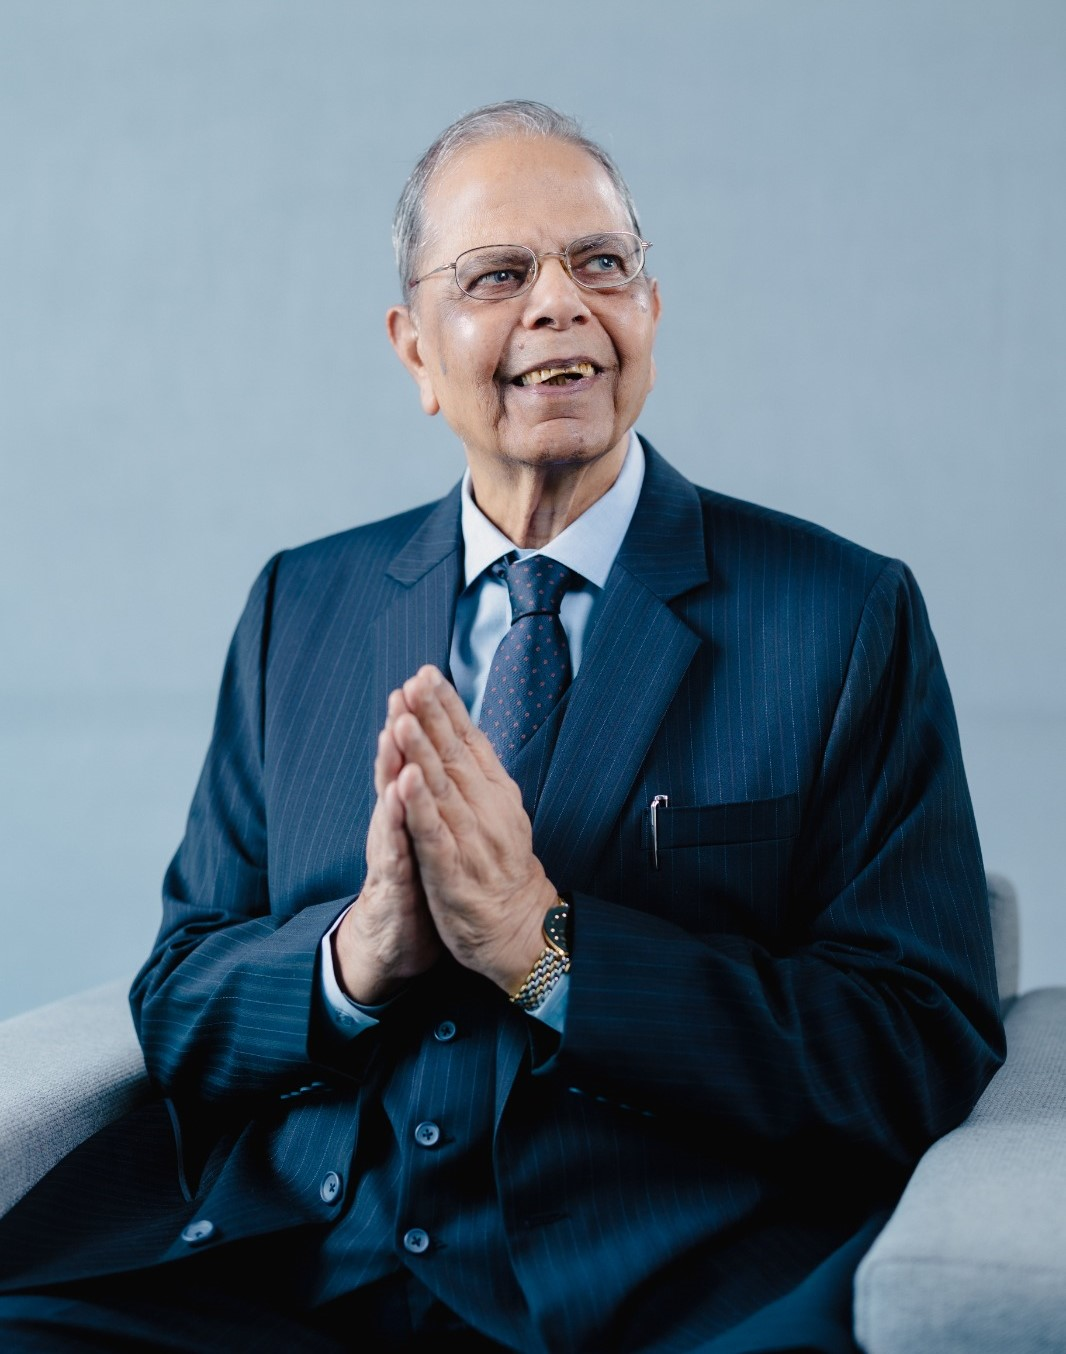
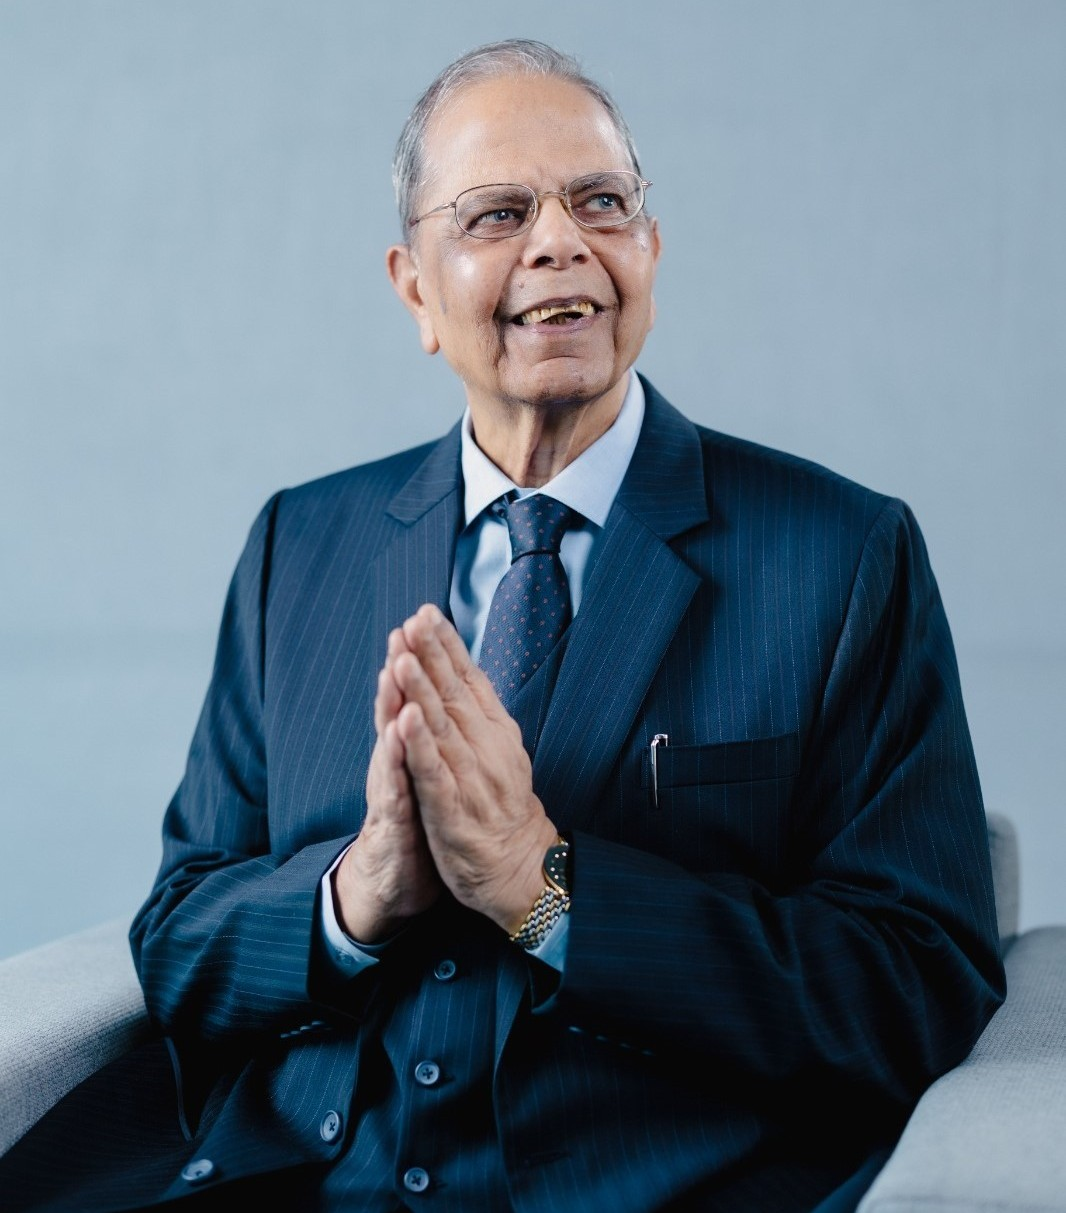
Implement code changes to enhance functionality and improve performance

diff --git a/index.html b/index.html
@@ -151,7 +151,7 @@
     <section class="chairman">
         <div class="chairman-content container-lg">
             <div class="chairman-image" data-aos="fade" data-aos-duration="1000">
-                <img src="assets/images/chairman-2.png" alt="chairman">
+                <img src="assets/images/chairman.jpeg" alt="chairman">
             </div>
             <div class="chairman-desc">
                 <img src="assets/images/top-right-arrow.png" alt="icon" data-aos="fade" data-aos-duration="1000">
@@ -285,69 +285,158 @@
 
     <!-- Media Start -->
     <section class="media container-lg">
-        <h1 data-aos="fade" data-aos-duration="1000">LATEST NEWS</h1>
-        <div class="media-boxes">
-            <div class="media-aside" data-aos="fade" data-aos-duration="1000">
-                <div class="img-box">
-                    <img src="assets/images/media/img-1.png" alt="image">
-                </div>
-                <div class="media-head">
-                    <h2>Nirmal Wires: Pioneering Indian Innovation with Niznal® - Redefining Strength & Durability.</h2>
-                </div>
-                <div class="media-desc">
-                    <p>Group Nirmal is as an established quality manufacturer of world- class steel wires with an annual capacity of 216,000 metric tonne and a $260 million USD turnover operating in 7 state-of-the-art...</p>
-                </div>
-                <a href="https://www.industrialtechmag.com/2024/04/08/group-nirmal/" target="_blank"><button>READ MORE</button></a>
-            </div>
-            <div class="media-center" data-aos="fade" data-aos-duration="1000">
-                <div class="center-box">
-                    <div class="center-box-left">
-                        <div class="img-box">
-                            <img src="assets/images/media/img-2.png" alt="image">
-                        </div>
-                    </div>
-                    <div class="center-box-right">
-                        <div class="media-head">
-                            <h2>Nirmal Wires Aims at Enhancing Its Position as Holistic Solutions Provider in Industry.</h2>
-                        </div>
-                        <div class="media-desc">
-                            <p>Leading manufacturers of world-class steel wires with an annual capacity of 1,80,000 metric tonnes and an INR 1,200 crore turnover...</p>
-                        </div>
-                        <a href="https://www.wirecable.in/nirmal-wires-aims-at-enhancing-its-position/" target="_blank"><button>READ MORE</button></a>
-                    </div>
-                </div>
-                <div class="center-box">
-                    <div class="center-box-right">
-                        <div class="media-head">
-                            <h2>Group Nirmal: Re-Imagineering Tomorrow.</h2>
-                        </div>
-                        <div class="media-desc">
-                            <p>Group Nirmal's main fencing-related products include chain link fences, barbed wires, and PVC-coated wires. One of their most significant breakthroughs is a newly released product called Niznal...</p>
-                        </div>
-                        <a href="https://www.theindustryoutlook.com/services-and-consulting/vendor/group-nirmal-reimagineering-tomorrow--cid-7558.html" target="_blank"><button>READ MORE</button></a>
-                    </div>
-                    <div class="center-box-left">
-                        <div class="img-box">
-                            <img src="assets/images/media/img-3.png" alt="image">
-                        </div>
-                    </div>
-                </div>
-            </div>
-            <div class="media-aside" data-aos="fade" data-aos-duration="1000">
-                <div class="img-box">
-                    <img src="assets/images/media/img-4.png" alt="image">
-                </div>
-                <div class="media-head">
-                    <h2>Group Nirmal redefines coated wire tech with Niznal®, unlocking future possibilities.</h2>
-                </div>
-                <div class="media-desc">
-                    <p>With over 50 years of experience and expertise in wire manufacturing, the company has always been committed to pushing boundaries and...</p>
-                </div>
-                <a href="https://www.eprmagazine.com/power-brand/group-nirmal-redefines-coated-wire-tech-with-niznal-unlocking-future-possibilities/" target="_blank"><button>READ MORE</button></a>
+        <h1 data-aos="fade" data-aos-duration="1000">&mdash; LATEST NEWS &mdash;</h1>
+    
+        <div class="latest-news-head" data-aos="fade" data-aos-duration="1000">
+            <div class="nav nav-pills" role="tablist">
+                <button class="nav-link active" data-bs-toggle="pill" data-bs-target="#our-blogs" type="button" role="tab"
+                    aria-selected="true"><span>Our Blogs</span></button>
+                <button class="nav-link" data-bs-toggle="pill" data-bs-target="#media-coverage" type="button" role="tab"
+                    aria-selected="false"><span>Media Coverage</span></button>
             </div>
         </div>
-    </section> 
+    
+        <div class="tab-content">
+            <!-- Tab 1 -->
+            <div class="tab-pane fade show active" id="our-blogs" role="tabpanel">
+                <div class="media-boxes">
+                    <div class="media-aside" data-aos="fade" data-aos-duration="1000">
+                        <div class="img-box">
+                            <img src="assets/images/media/img-1.png" alt="image">
+                        </div>
+                        <div class="media-head">
+                            <h2>Nirmal Wires: Pioneering Indian Innovation with Niznal® - Redefining Strength & Durability.</h2>
+                        </div>
+                        <div class="media-desc">
+                            <p>Group Nirmal is as an established quality manufacturer of world- class steel wires with an annual capacity of 216,000 metric tonne and a $260 million USD turnover operating in 7 state-of-the-art...</p>
+                        </div>
+                        <a href="https://www.industrialtechmag.com/2024/04/08/group-nirmal/" target="_blank"><button>READ MORE</button></a>
+                    </div>
+                    <div class="media-center" data-aos="fade" data-aos-duration="1000">
+                        <div class="center-box">
+                            <div class="center-box-left">
+                                <div class="img-box">
+                                    <img src="assets/images/media/img-2.png" alt="image">
+                                </div>
+                            </div>
+                            <div class="center-box-right">
+                                <div class="media-head">
+                                    <h2>Nirmal Wires Aims at Enhancing Its Position as Holistic Solutions Provider in Industry.</h2>
+                                </div>
+                                <div class="media-desc">
+                                    <p>Leading manufacturers of world-class steel wires with an annual capacity of 1,80,000 metric tonnes and an INR 1,200 crore turnover...</p>
+                                </div>
+                                <a href="https://www.wirecable.in/nirmal-wires-aims-at-enhancing-its-position/" target="_blank"><button>READ MORE</button></a>
+                            </div>
+                        </div>
+                        <div class="center-box">
+                            <div class="center-box-right">
+                                <div class="media-head">
+                                    <h2>Group Nirmal: Re-Imagineering Tomorrow.</h2>
+                                </div>
+                                <div class="media-desc">
+                                    <p>Group Nirmal's main fencing-related products include chain link fences, barbed wires, and PVC-coated wires. One of their most significant breakthroughs is a newly released product called Niznal...</p>
+                                </div>
+                                <a href="https://www.theindustryoutlook.com/services-and-consulting/vendor/group-nirmal-reimagineering-tomorrow--cid-7558.html" target="_blank"><button>READ MORE</button></a>
+                            </div>
+                            <div class="center-box-left">
+                                <div class="img-box">
+                                    <img src="assets/images/media/img-3.png" alt="image">
+                                </div>
+                            </div>
+                        </div>
+                    </div>
+                    <div class="media-aside" data-aos="fade" data-aos-duration="1000">
+                        <div class="img-box">
+                            <img src="assets/images/media/img-4.png" alt="image">
+                        </div>
+                        <div class="media-head">
+                            <h2>Group Nirmal redefines coated wire tech with Niznal®, unlocking future possibilities.</h2>
+                        </div>
+                        <div class="media-desc">
+                            <p>With over 50 years of experience and expertise in wire manufacturing, the company has always been committed to pushing boundaries and...</p>
+                        </div>
+                        <a href="https://www.eprmagazine.com/power-brand/group-nirmal-redefines-coated-wire-tech-with-niznal-unlocking-future-possibilities/" target="_blank"><button>READ MORE</button></a>
+                    </div>
+                </div>
+            </div>
+    
+            <!-- Tab 2 -->
+            <div class="tab-pane fade" id="media-coverage" role="tabpanel">
+                <div class="media-boxes">
+                    <div class="media-aside" data-aos="fade" data-aos-duration="1000">
+                        <div class="img-box">
+                            <img src="assets/images/media/img-1.png" alt="image">
+                        </div>
+                        <div class="media-head">
+                            <h2>Nirmal Wires: Pioneering Indian Innovation with Niznal® - Redefining Strength & Durability.</h2>
+                        </div>
+                        <div class="media-desc">
+                            <p>Group Nirmal is as an established quality manufacturer of world- class steel wires with an annual capacity of 216,000 metric tonne and a $260 million USD turnover operating in 7 state-of-the-art...</p>
+                        </div>
+                        <a href="https://www.industrialtechmag.com/2024/04/08/group-nirmal/" target="_blank"><button>READ MORE</button></a>
+                    </div>
+                    <div class="media-center" data-aos="fade" data-aos-duration="1000">
+                        <div class="center-box">
+                            <div class="center-box-left">
+                                <div class="img-box">
+                                    <img src="assets/images/media/img-2.png" alt="image">
+                                </div>
+                            </div>
+                            <div class="center-box-right">
+                                <div class="media-head">
+                                    <h2>Nirmal Wires Aims at Enhancing Its Position as Holistic Solutions Provider in Industry.</h2>
+                                </div>
+                                <div class="media-desc">
+                                    <p>Leading manufacturers of world-class steel wires with an annual capacity of 1,80,000 metric tonnes and an INR 1,200 crore turnover...</p>
+                                </div>
+                                <a href="https://www.wirecable.in/nirmal-wires-aims-at-enhancing-its-position/" target="_blank"><button>READ MORE</button></a>
+                            </div>
+                        </div>
+                        <div class="center-box">
+                            <div class="center-box-right">
+                                <div class="media-head">
+                                    <h2>Group Nirmal: Re-Imagineering Tomorrow.</h2>
+                                </div>
+                                <div class="media-desc">
+                                    <p>Group Nirmal's main fencing-related products include chain link fences, barbed wires, and PVC-coated wires. One of their most significant breakthroughs is a newly released product called Niznal...</p>
+                                </div>
+                                <a href="https://www.theindustryoutlook.com/services-and-consulting/vendor/group-nirmal-reimagineering-tomorrow--cid-7558.html" target="_blank"><button>READ MORE</button></a>
+                            </div>
+                            <div class="center-box-left">
+                                <div class="img-box">
+                                    <img src="assets/images/media/img-3.png" alt="image">
+                                </div>
+                            </div>
+                        </div>
+                    </div>
+                    <div class="media-aside" data-aos="fade" data-aos-duration="1000">
+                        <div class="img-box">
+                            <img src="assets/images/media/img-4.png" alt="image">
+                        </div>
+                        <div class="media-head">
+                            <h2>Group Nirmal redefines coated wire tech with Niznal®, unlocking future possibilities.</h2>
+                        </div>
+                        <div class="media-desc">
+                            <p>With over 50 years of experience and expertise in wire manufacturing, the company has always been committed to pushing boundaries and...</p>
+                        </div>
+                        <a href="https://www.eprmagazine.com/power-brand group-nirmal-redefines-coated-wire-tech-with-niznal-unlocking-future-possibilities/" target="_blank"><button>READ MORE</button></a>
+                    </div>
+                </div>
+            </div>
+        </div>
+    </section>
     <!-- Media End -->
+
+    <!-- Contact Us Start -->
+    <section class="contact-us">
+        <div class="contact-us-content">
+            <h1>Lorem ipsum</h1>
+            <p>Lorem ipsum dolor sit amet, consectetur adipiscing elit, sed do eiusmod tempor incididunt ut labore et dolore magna aliqua. Quis ipsum suspendisse ultrices gravida. Risus commodo viverra maecenas accumsan lacus vel facilisis.</p>
+            <a href="contact.html"><button>CONTACT US</button></a>
+        </div>
+    </section> 
+    <!-- Contact Us End -->
 
     <!-- Footer Start -->
     <footer class="px-md-5 pt-5">

diff --git a/assets/css/style.css b/assets/css/style.css
@@ -340,6 +340,7 @@ nav{
 }
 .chairman-content .chairman-image img{
     width: 100%;
+    border: 0.4rem solid #fff;
 }
 .chairman-content .chairman-desc{
     width: 59%;
@@ -514,13 +515,34 @@ nav{
 
 /* Media Start */
 .media{
-    padding: 3rem 5.6% 5rem 5.6%;
+    padding: 3rem 5.6% 4rem 5.6%;
 }
 .media h1{
     text-align: center;
     font-weight: 650;
     font-size: calc(1.1rem + 1vw);
+    color: #386c94;
 }
+.media .latest-news-head{
+    display: flex;
+    justify-content: center;
+    margin: 1.5rem 0;
+}
+.media .latest-news-head button{
+    background-color: transparent !important;
+    color: #000;
+    font-weight: 600;
+    font-size: calc(0.8rem + 0.5vw);
+    border-radius: 0;
+    padding: 0.2rem 2.5rem;
+}
+.media .latest-news-head button.active{
+    color: #386c94;
+}
+.media .latest-news-head button:first-child{
+    border-right: 2px solid #386c94;
+}
+
 .media-boxes{
     margin-top: 1.7rem;
     display: flex;
@@ -589,7 +611,10 @@ nav{
 /* For 110% in 15 inch screens */
 @media screen and (min-width: 1230px) and (max-width: 1399px){
     .media{
-        padding: 4rem 1.2rem 5.5rem 1.2rem;
+        padding: 4rem 1.2rem 4.5rem 1.2rem;
+    }
+    .media .latest-news-head button{
+        font-size: calc(0.88rem + 0.5vw);
     }
     .media-boxes{
         margin-top: 2rem;
@@ -599,7 +624,14 @@ nav{
 /* For 100% in 15 inch screens */
 @media screen and (min-width: 1400px) {
     .media{
-        padding: 4rem 1.5% 5.5rem 1.5%;
+        padding: 4rem 1.5% 5rem 1.5%;
+    }
+    .media .latest-news-head{
+        margin: 1.8rem 0;
+    }
+    .media .latest-news-head button{
+        font-size: calc(0.9rem + 0.5vw);
+        padding: 0.2rem 3rem;
     }
     .media-boxes{
         margin-top: 2rem;
@@ -613,6 +645,80 @@ nav{
 }
 /* Media End */
 
+/* Contact Us Start */
+.contact-us{
+    background-image: url(../images/cta-bg.png);
+    background-size: cover;
+    background-position: center;
+    margin-bottom: 1rem;
+}
+.contact-us .contact-us-content{
+    padding: 3rem 5.6% 3rem 5.6%;
+    display: flex;
+    flex-direction: column;
+    align-items: center;
+    justify-content: center;
+    color: #fff;
+}
+.contact-us .contact-us-content h1{
+    text-transform: uppercase;
+    font-size: calc(1.7rem + 0.5vw);
+    font-weight: 600;
+}
+.contact-us .contact-us-content p{
+    font-size: calc(0.5rem + 0.5vw);
+    width: 55%;
+    text-align: center;
+}
+.contact-us .contact-us-content button{
+    font-size: calc(0.55rem + 0.5vw);
+    border: 2px solid #fff;
+    background-color: transparent;
+    padding: 0.2rem 1rem;
+    font-weight: 500;
+    color: #fff;
+    margin-top: 1rem;
+    transition: all 0.2s ease;
+}
+.contact-us .contact-us-content button:hover{
+    background-color: #386c94;
+}
+
+/* For 110% in 15 inch screens */
+@media screen and (min-width: 1230px) and (max-width: 1399px){
+    .contact-us .contact-us-content{
+        padding: 4.5rem 1.2rem 4rem 1.2rem;
+    }
+    .contact-us .contact-us-content h1{
+        font-size: calc(1.8rem + 0.5vw);
+    }
+    .contact-us .contact-us-content p{
+        font-size: calc(0.6rem + 0.5vw);
+    }
+    .contact-us .contact-us-content button{
+        font-size: calc(0.6rem + 0.5vw);
+        padding: 0.3rem 1.2rem;
+    }
+}
+
+/* For 100% in 15 inch screens */
+@media screen and (min-width: 1400px) {
+    .contact-us .contact-us-content{
+        padding: 5rem 1.5% 4.5rem 1.5%;
+    }
+    .contact-us .contact-us-content h1{
+        font-size: calc(1.9rem + 0.5vw);
+    }
+    .contact-us .contact-us-content p{
+        font-size: calc(0.65rem + 0.5vw);
+        margin-top: 0.2rem;
+    }
+    .contact-us .contact-us-content button{
+        font-size: calc(0.68rem + 0.5vw);
+        padding: 0.4rem 1.4rem;
+    }
+}
+/* Contact Us End */
 
 /* Footer Start */
 footer{
